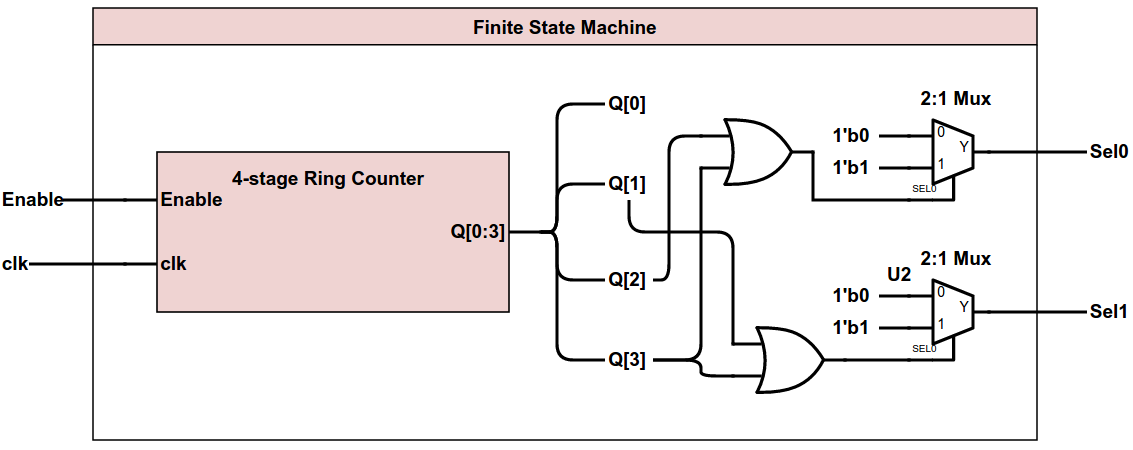
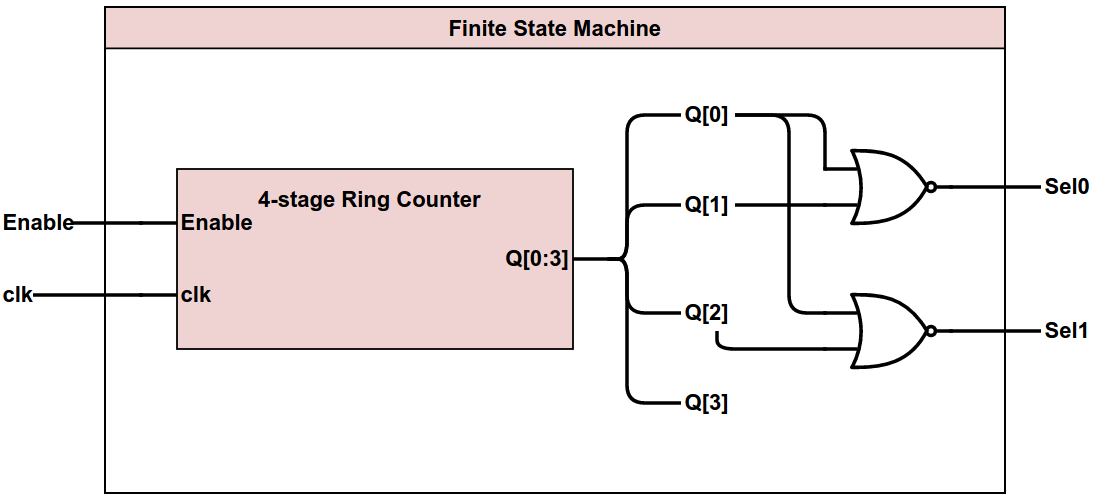
optimized fsm

Changed region(s): [[0.0, 0.0, 1.0, 0.9956]]

diff --git a/Midterm/Schematics.md b/Midterm/Schematics.md
@@ -64,6 +64,5 @@ This component takes in an enable signal and, when it is high, steps through the
 | Component            | Cost Per | # Used | Subtotal |
 |----------------------|----------|--------|----------|
 | 4-stage ring counter | 83       | 1      | 83       |
-| OR gate              | 3        | 2      | 6        |
-| 2:1 mux              | 7        | 2      | 14       |
-Total: **103** GIE
+| NOR gate             | 2        | 2      | 4        |
+Total: **87** GIE
